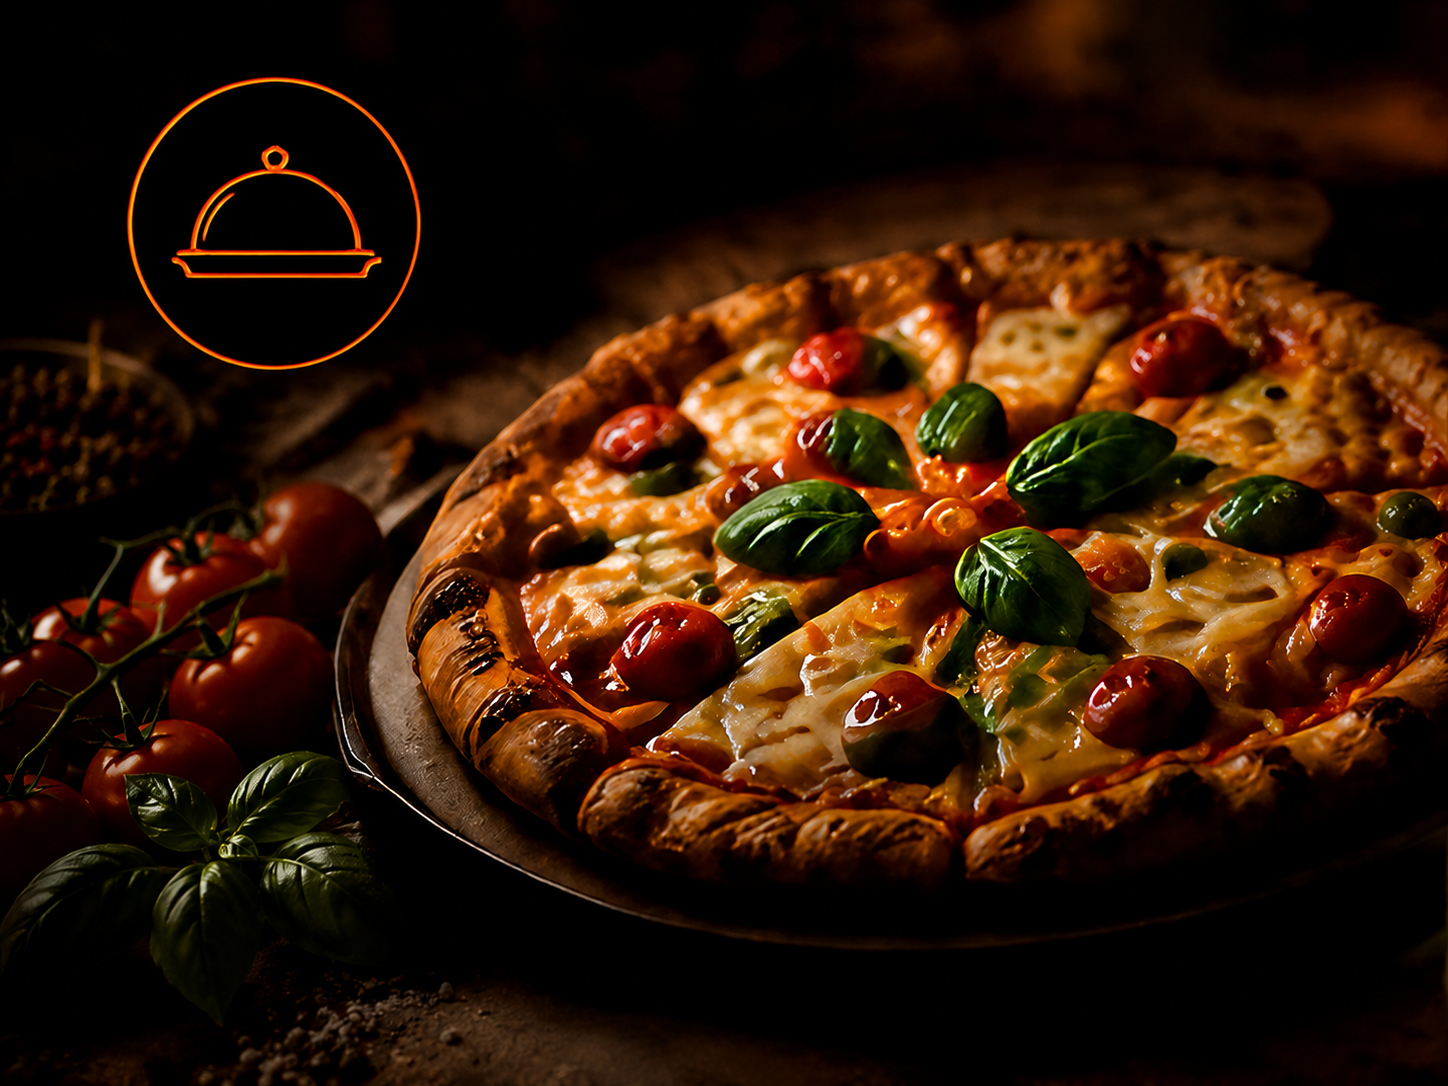
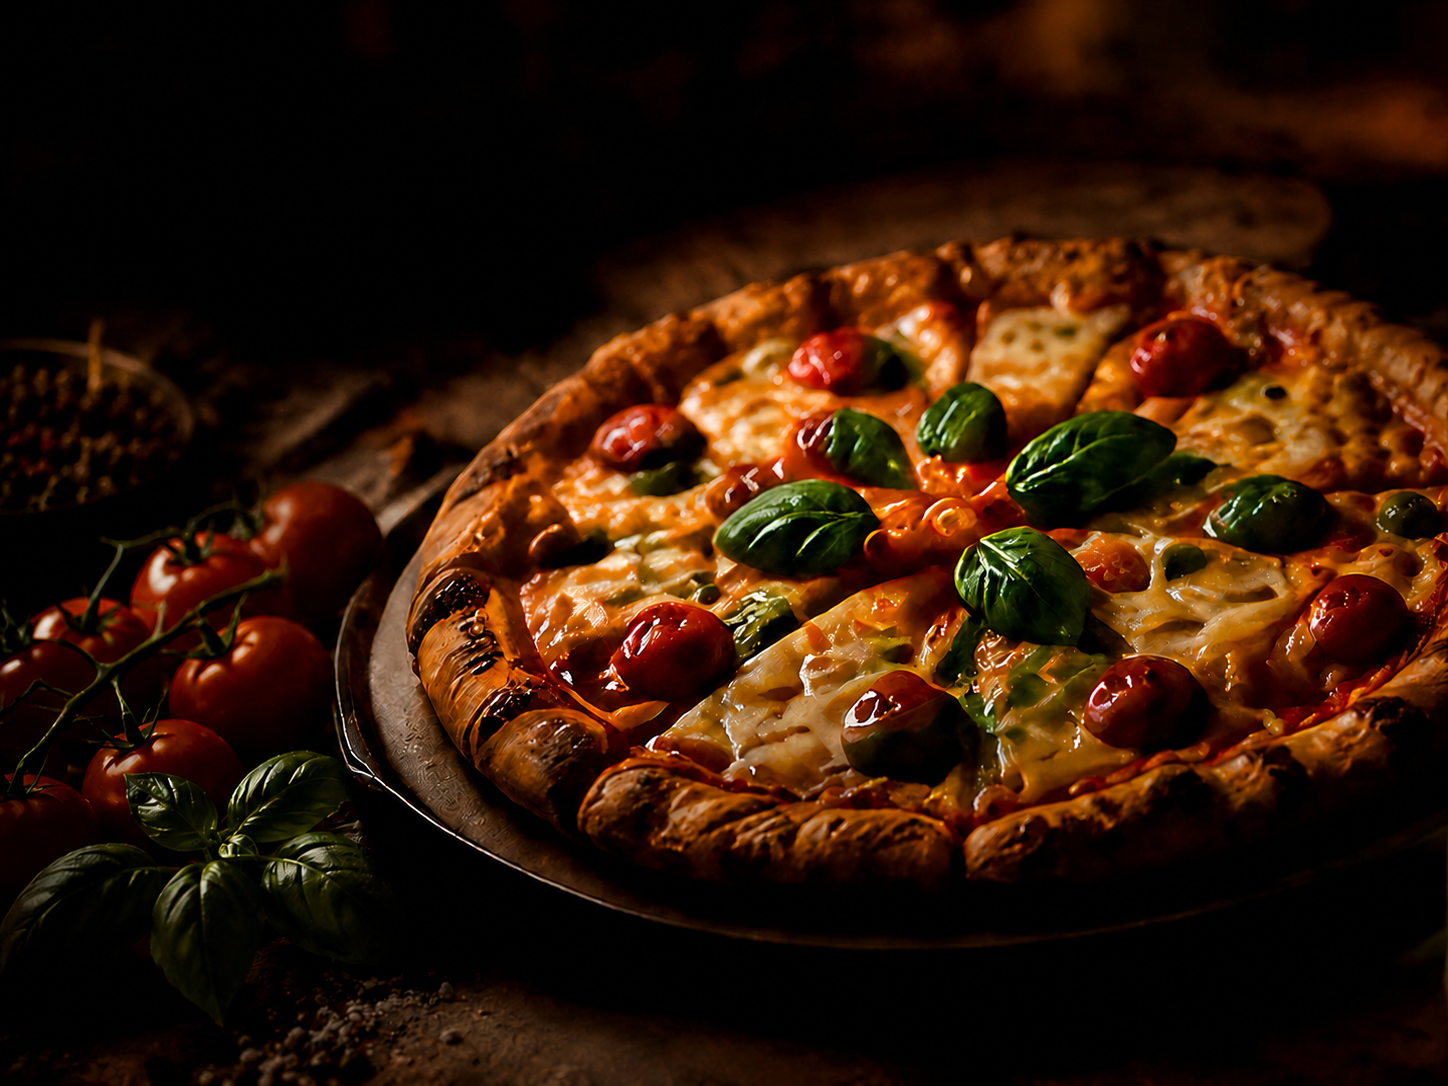
new new new new new

diff --git a/src/components/sections/delivery/services-section.tsx b/src/components/sections/delivery/services-section.tsx
@@ -95,22 +95,25 @@ export function ServicesSection({ className }: { className?: string }) {
   return (
     <section className={className}>
       <h2 className="text-5xl lg:text-6xl mb-6 font-display">Заказать</h2>
-      <div className="grid grid-cols-2 gap-11 max-lg:gap-6 max-[500px]:grid-cols-1">
+      <div className="grid grid-cols-2 gap-11 max-lg:gap-6 max-sm:gap-3">
         {services.map((s, i) => (
           <div key={i}>
             <Card
               as="div"
               onClick={open}
-              className="group p-0 flex flex-col h-full overflow-hidden transition-all duration-500 ease-out hover:scale-100 active:scale-100 hover:-translate-y-2 hover:shadow-[0_4px_24px_-6px_var(--color-accent)] cursor-pointer"
+              className="group p-0 flex flex-col h-full overflow-hidden transition-all duration-500 ease-out hover:scale-100 active:scale-95 hover:-translate-y-2 hover:shadow-[0_4px_24px_-6px_var(--color-accent)] cursor-pointer"
             >
-              <div className="relative aspect-[2/1] w-full shrink-0 overflow-hidden max-lg:aspect-[3/2]">
+              <div className="relative aspect-[2/1] w-full shrink-0 overflow-hidden max-lg:aspect-[3/2] max-[500px]:aspect-square max-sm:aspect-[2/3]">
                 <Image src={s.image} alt={s.title} fill className="object-cover" />
                 <div className="absolute inset-0 bg-gradient-to-t from-black/70 via-black/20 to-transparent" />
               </div>
-              <div className="absolute bottom-0 z-10 flex flex-col flex-1 gap-2 p-5">
-                <h3 className="flex justify-center gap-3 text-3xl lg:text-4xl font-display font-bold uppercase tracking-tight text-[var(--color-text-primary)] min-[500px]:max-sm:text-xl max-[450px]:text-xl">
-                  {s.title}
-                  <ArrowRight className="w-10 h-10 lg:w-12 lg:h-12 text-[var(--color-accent)] transition-transform duration-500 group-hover:translate-x-1.5 min-[500px]:max-sm:w-6 min-[500px]:max-sm:h-6 max-[450px]:w-8 max-[450px]:h-8" strokeWidth={2} />
+              <div className="absolute bottom-0 z-10 flex flex-col flex-1 gap-2 p-5 max-[500px]:p-3 max-sm:inset-x-0 max-sm:mx-auto max-sm:w-fit max-sm:items-center max-sm:text-center">
+                <h3 className="flex items-center justify-center gap-3 text-center text-4xl font-display font-bold uppercase tracking-tight text-[var(--color-text-primary)] max-lg:text-2xl max-[500px]:flex-col max-[500px]:gap-1 max-[500px]:text-sm max-[500px]:leading-tight max-[360px]:text-[13px] max-lg:text-3xl max-sm:text-lg">
+                  <span>{s.title}</span>
+                  <ArrowRight
+                    className="w-10 h-10 lg:w-12 lg:h-12 text-[var(--color-accent)] transition-transform duration-500 group-hover:translate-x-1.5 max-lg:w-8 max-lg:h-8 max-[500px]:w-5 max-[500px]:h-5"
+                    strokeWidth={2}
+                  />
                 </h3>
               </div>
             </Card>
